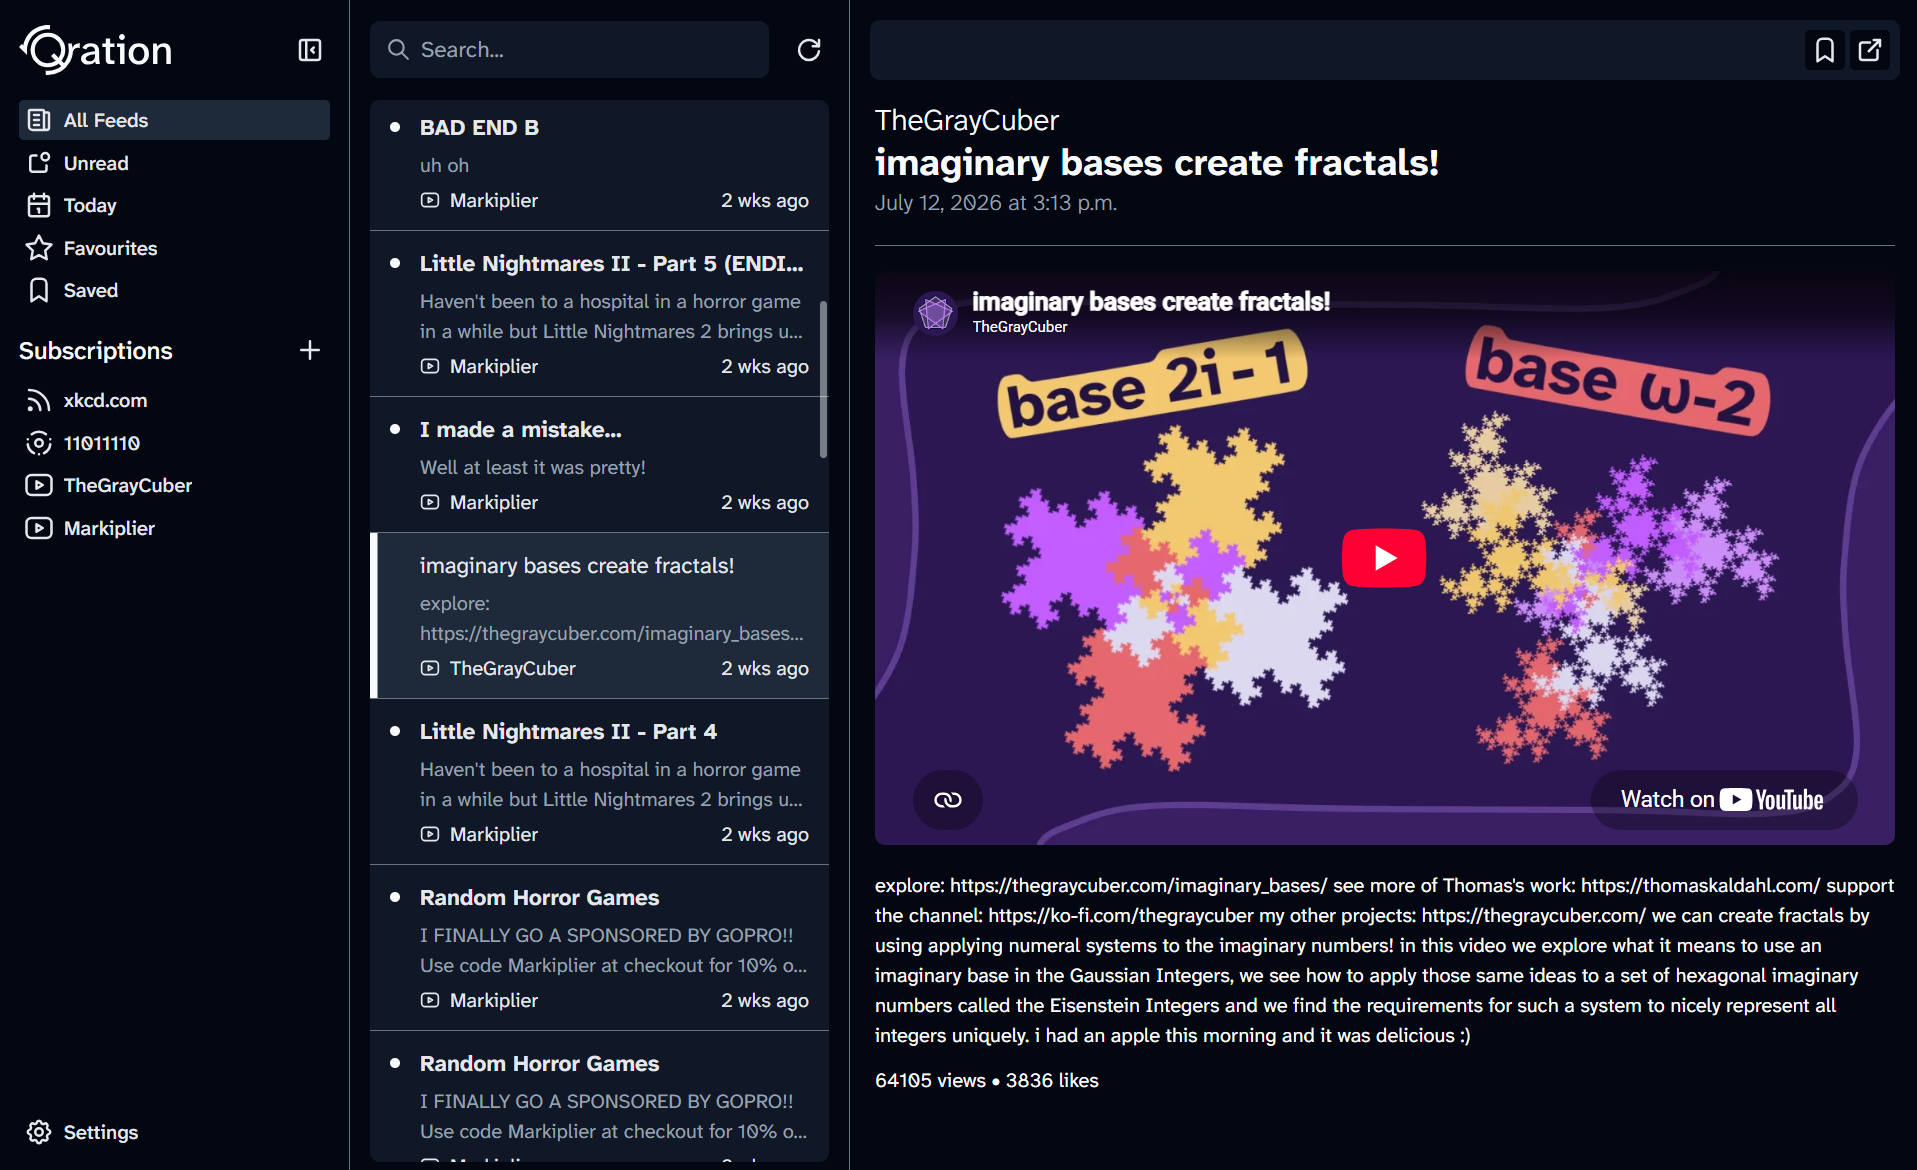
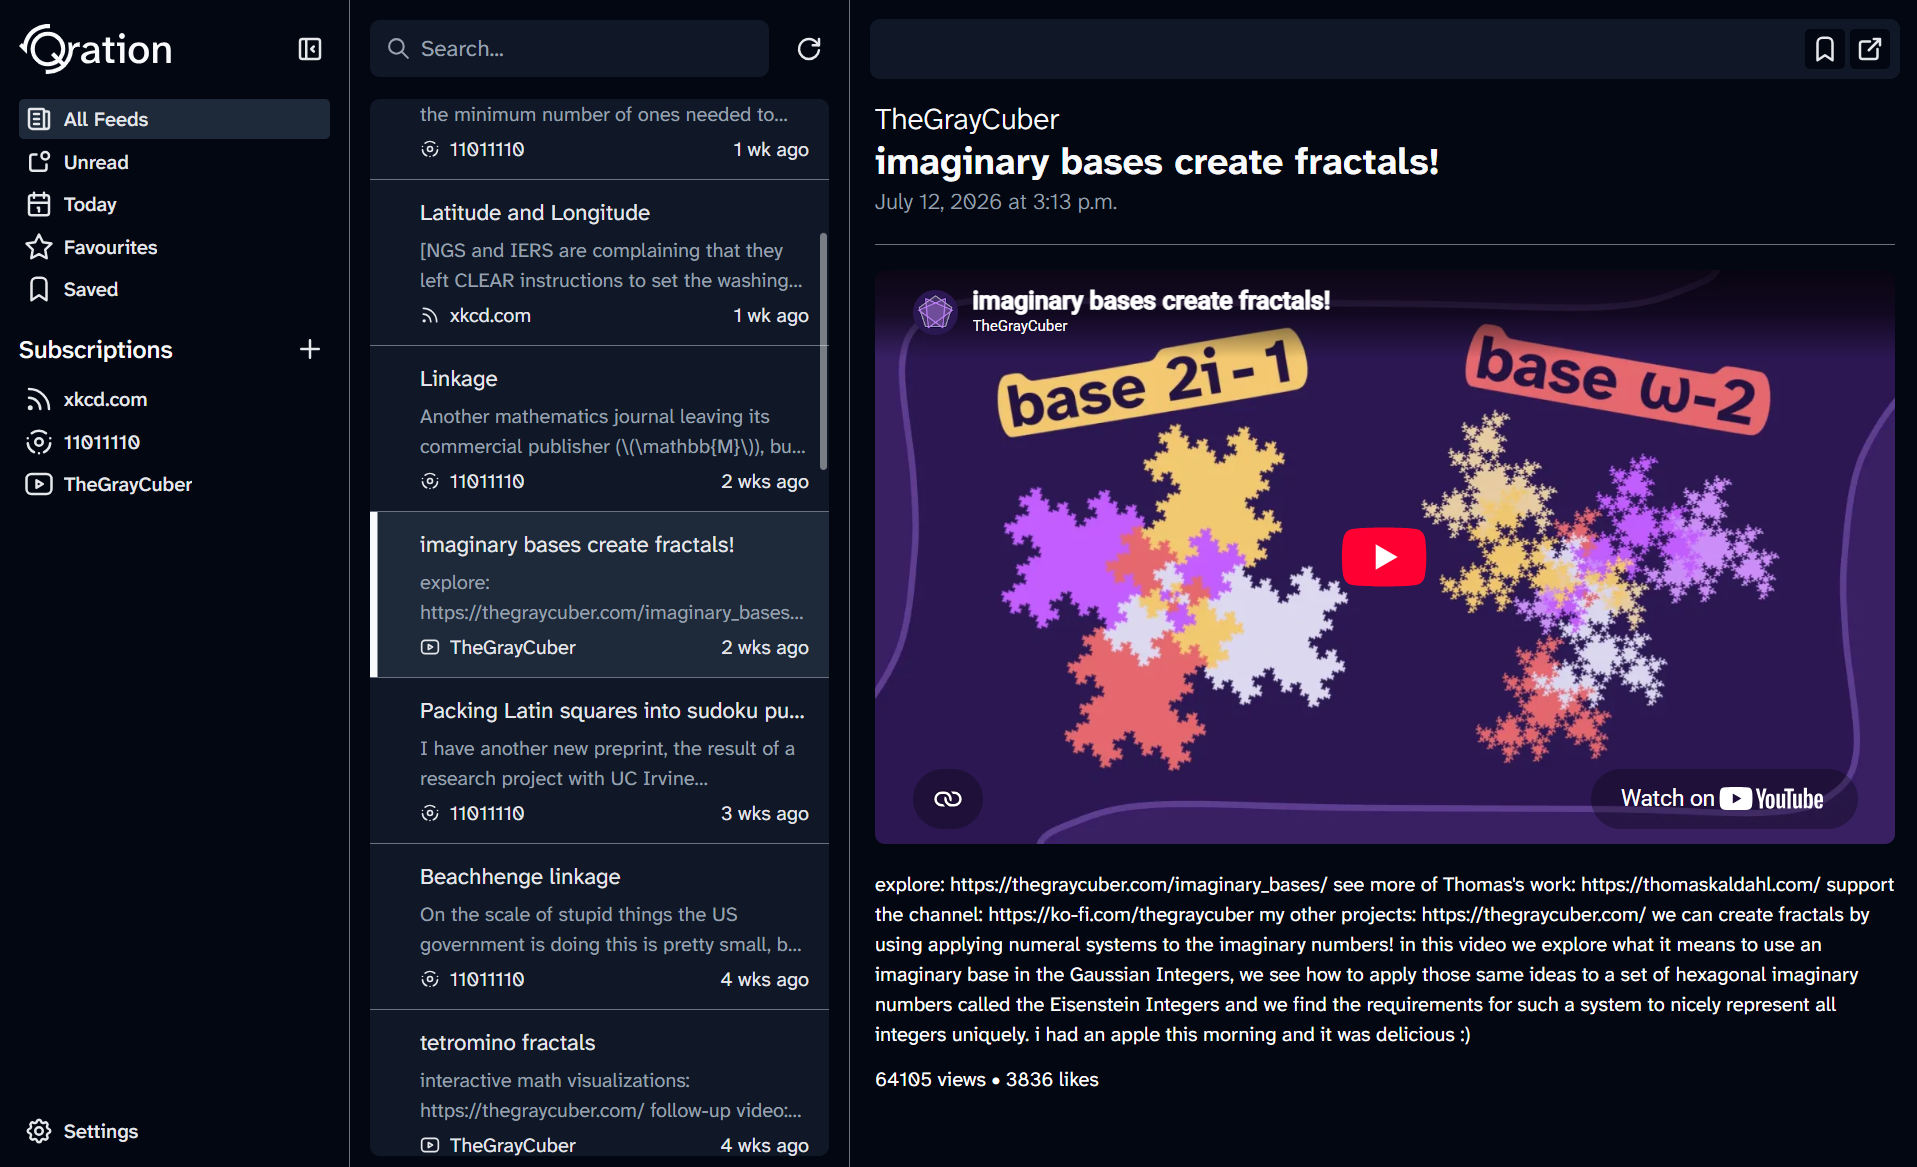
fix: use a better screenshot

diff --git a/src/lib/components/feed/ArticlesSidebar.svelte b/src/lib/components/feed/ArticlesSidebar.svelte
@@ -75,7 +75,7 @@
 			onclick={() => refreshAllFeeds()}
 			iconClass={feedsRefreshing ? 'animate-spin' : ''} />
 	</div>
-	<div class="mx-4 mb-2 overflow-hidden rounded-lg">
+	<div class="mx-4 mb-3 overflow-hidden rounded-lg">
 		<OverlayScrollbarsComponent
 			defer
 			class="h-full w-full bg-bg text-4xl text-text"

diff --git a/README.md b/README.md
@@ -24,7 +24,7 @@ Qration is, and always will be, 100% free and open source.
 
 - [ ] YouTube transcript fetching
 - [ ] More support for RSS+ feeds
-- [ ] OPML impo!rt/export
+- [ ] OPML import/export
 - [ ] Opt-in account system
 - [ ] Opt-in cloud sync
 - [ ] Article snippet sharing
